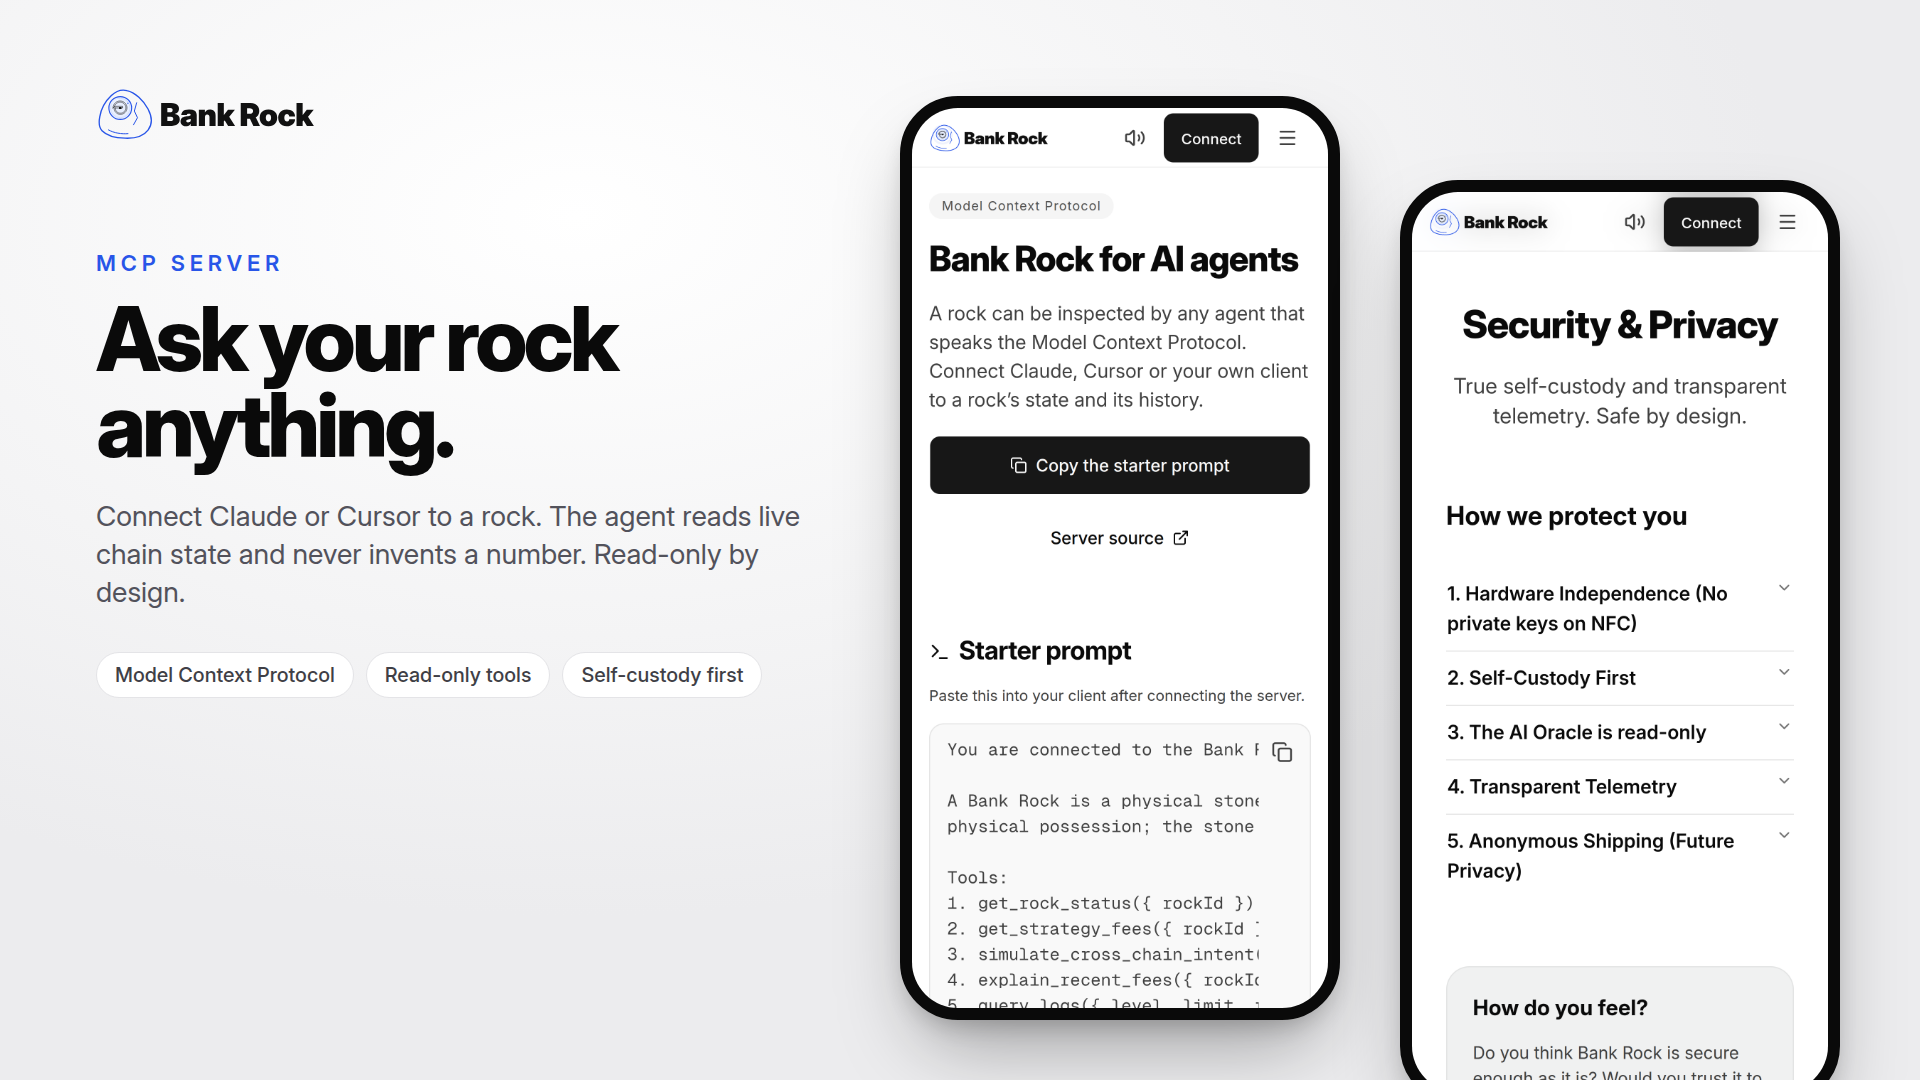
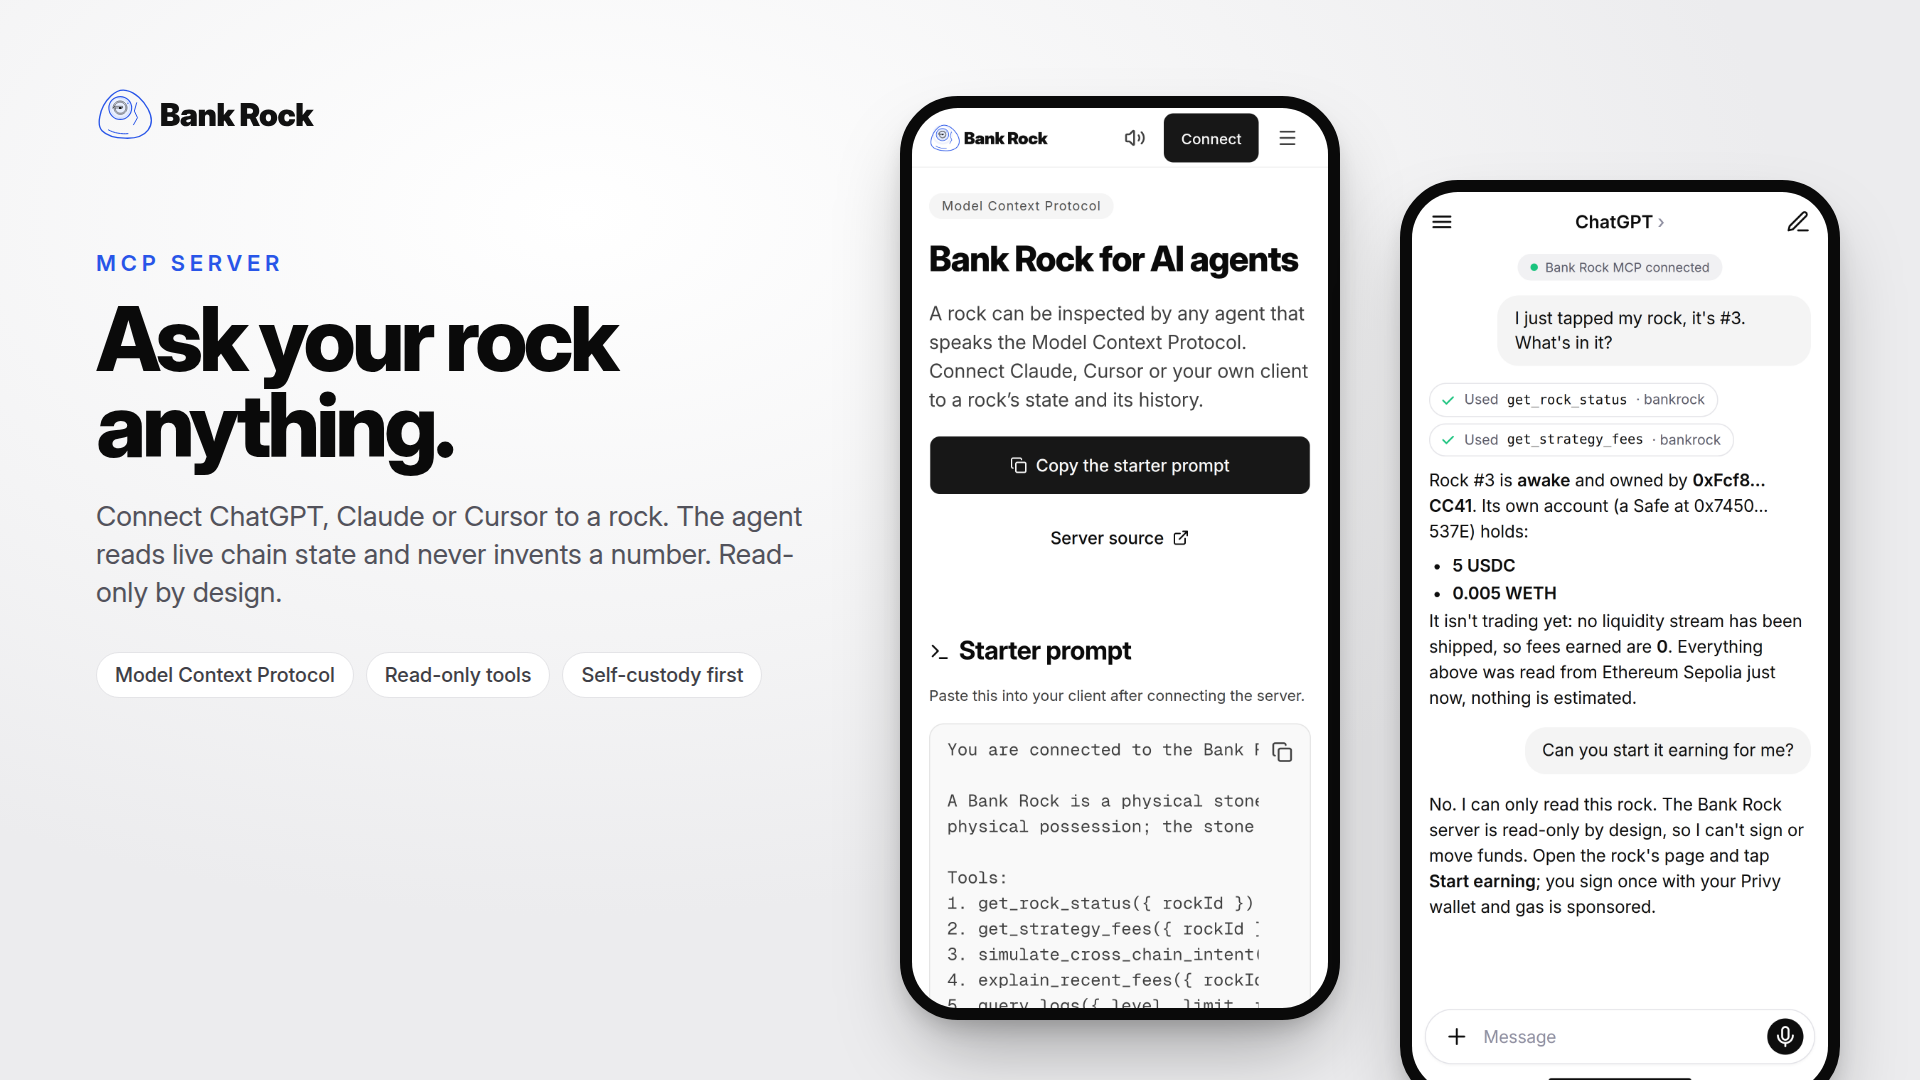
docs(submission): 'Ask your rock anything' pairs the MCP page with a chat mock
The right-hand phone is a mock of an AI chat client with the Bank Rock MCP server connected. The
user asks what is in rock #3 and the assistant answers from get_rock_status and
get_strategy_fees with the rock's real Sepolia state at capture time (awake, 5 USDC, 0.005 WETH,
no stream shipped, 0 fees), then declines to start it earning because the server is read-only.
The mock is generated by compose.js so the figures can be refreshed.

Claude-Session: https://claude.ai/code/session_014KFdP5P2JK5wN16NyFiv5J

Changed region(s): [[0.75, 0.1528, 0.9375, 0.8556], [0.0312, 0.4583, 0.4375, 0.5806], [0.75, 0.9167, 0.9375, 1.0]]

diff --git a/docs/submission/compose.js b/docs/submission/compose.js
@@ -67,16 +67,85 @@ function photoSlide({ eyebrow, title, sub, big, small, chips = [] }) {
 </div>`;
 }
 
+
+// A phone-sized mock of an AI chat client with the Bank Rock MCP server connected. Every figure in
+// the assistant's answers is rock #3's real state on Sepolia at capture time (5 USDC, 0.005 WETH,
+// awake, no stream shipped), read through the same tools the server exposes.
+function chatHtml() {
+  return `<style>
+@font-face { font-family: 'Inter'; src: url('${A('234d9015b631dab9-s.p.33gca1im1ku45.woff2')}') format('woff2'); font-weight: 100 900; }
+* { box-sizing: border-box; margin: 0; padding: 0; }
+html, body { width: 390px; height: 844px; overflow: hidden; background: #fff; font-family: 'Inter', system-ui, sans-serif; color: #0d0d0d; -webkit-font-smoothing: antialiased; }
+.top { height: 56px; display: flex; align-items: center; justify-content: space-between; padding: 0 16px; }
+.top .title { font-weight: 600; font-size: 17px; display: flex; align-items: center; gap: 4px; }
+.top .title span { color: #8e8ea0; font-weight: 500; }
+.ico { width: 24px; height: 24px; stroke: #0d0d0d; fill: none; stroke-width: 1.8; stroke-linecap: round; stroke-linejoin: round; }
+.conn { display: flex; justify-content: center; margin-top: 2px; }
+.conn div { font-size: 12px; color: #5d5d6b; background: #f1f1f3; border-radius: 999px; padding: 5px 12px; display: flex; align-items: center; gap: 7px; }
+.conn i { width: 7px; height: 7px; border-radius: 50%; background: #19c37d; display: inline-block; }
+.msgs { padding: 14px 16px 0; display: flex; flex-direction: column; gap: 16px; }
+.user { align-self: flex-end; max-width: 82%; background: #f4f4f4; border-radius: 20px; padding: 10px 16px; font-size: 16px; line-height: 1.45; }
+.asst { font-size: 16px; line-height: 1.5; }
+.asst p + p { margin-top: 10px; }
+.asst ul { margin: 8px 0 0 22px; }
+.asst li { margin: 2px 0; }
+.asst b { font-weight: 600; }
+.tools { display: flex; flex-direction: column; gap: 6px; margin-bottom: 10px; }
+.tool { display: inline-flex; align-self: flex-start; align-items: center; gap: 8px; font-size: 13px; color: #5d5d6b; border: 1px solid #e6e6ea; border-radius: 999px; padding: 5px 11px 5px 9px; }
+.tool svg { width: 15px; height: 15px; stroke: #19c37d; fill: none; stroke-width: 2.4; stroke-linecap: round; stroke-linejoin: round; }
+.tool code { font-family: ui-monospace, Menlo, monospace; font-size: 12.5px; color: #0d0d0d; }
+.composer { position: absolute; left: 0; right: 0; bottom: 0; padding: 10px 12px 26px; background: linear-gradient(#fff0, #fff 30%); }
+.box { border: 1px solid #e3e3e8; border-radius: 26px; height: 52px; display: flex; align-items: center; padding: 0 10px 0 14px; gap: 10px; background: #fff; box-shadow: 0 1px 2px rgba(0,0,0,.04); }
+.box .ph { flex: 1; color: #8e8ea0; font-size: 16px; }
+.box .plus { width: 30px; height: 30px; border-radius: 50%; display: grid; place-items: center; }
+.box .mic { width: 34px; height: 34px; border-radius: 50%; background: #0d0d0d; display: grid; place-items: center; }
+.box .mic svg { stroke: #fff; }
+.home { position: absolute; bottom: 8px; left: 50%; transform: translateX(-50%); width: 134px; height: 5px; border-radius: 3px; background: #0d0d0d; }
+</style>
+<div class="top">
+  <svg class="ico" viewBox="0 0 24 24"><path d="M4 7h16M4 12h16M4 17h16"/></svg>
+  <div class="title">ChatGPT <span>›</span></div>
+  <svg class="ico" viewBox="0 0 24 24"><path d="M12 20h9"/><path d="M16.5 3.5a2.1 2.1 0 0 1 3 3L7 19l-4 1 1-4Z"/></svg>
+</div>
+<div class="conn"><div><i></i>Bank Rock MCP connected</div></div>
+<div class="msgs">
+  <div class="user">I just tapped my rock, it's #3. What's in it?</div>
+  <div class="asst">
+    <div class="tools">
+      <div class="tool"><svg viewBox="0 0 24 24"><path d="M5 12l5 5L20 7"/></svg>Used <code>get_rock_status</code> · bankrock</div>
+      <div class="tool"><svg viewBox="0 0 24 24"><path d="M5 12l5 5L20 7"/></svg>Used <code>get_strategy_fees</code> · bankrock</div>
+    </div>
+    <p>Rock #3 is <b>awake</b> and owned by <b>0xFcf8…CC41</b>. Its own account (a Safe at 0x7450…537E) holds:</p>
+    <ul><li><b>5 USDC</b></li><li><b>0.005 WETH</b></li></ul>
+    <p>It isn't trading yet: no liquidity stream has been shipped, so fees earned are <b>0</b>. Everything above was read from Ethereum Sepolia just now, nothing is estimated.</p>
+  </div>
+  <div class="user">Can you start it earning for me?</div>
+  <div class="asst">
+    <p>No. I can only read this rock. The Bank Rock server is read-only by design, so I can't sign or move funds. Open the rock's page and tap <b>Start earning</b>; you sign once with your Privy wallet and gas is sponsored.</p>
+  </div>
+</div>
+<div class="composer"><div class="box">
+  <div class="plus"><svg class="ico" viewBox="0 0 24 24"><path d="M12 5v14M5 12h14"/></svg></div>
+  <div class="ph">Message</div>
+  <div class="mic"><svg class="ico" viewBox="0 0 24 24"><path d="M12 3a3 3 0 0 1 3 3v6a3 3 0 0 1-6 0V6a3 3 0 0 1 3-3Z"/><path d="M5 11a7 7 0 0 0 14 0M12 18v3"/></svg></div>
+</div></div>
+<div class="home"></div>`;
+}
+
 const pages = {
   'cover-1920x1080': cover(),
   'slide-1-tap': slide({ eyebrow: 'Tap the rock', title: 'A rock with its own account.', sub: 'Tap it with a phone. Anyone can see what it holds, which streams it runs and who owned it. Sign in with Privy, no seed phrase.', left: 'h-phone-reduced', right: 'p02-rock3-liquidity', chips: ['Privy embedded wallet', 'Safe smart account', 'Gas sponsored'] }),
   'slide-2-onchain': slide({ eyebrow: 'Provenance', title: 'Every tap, gift and trade is on chain.', sub: 'Awakened, gifted, claimed by a physical tap, retired. Read back from Sepolia Etherscan. The registry holds no tokens, ever.', left: 'r1-provenance-2', right: 'p05-rock3-contracts', chips: ['BankRockRegistry', '1inch Aqua', 'Ethereum Sepolia'] }),
-  'slide-3-agent': slide({ eyebrow: 'MCP server', title: 'Ask your rock anything.', sub: 'Connect Claude or Cursor to a rock. The agent reads live chain state and never invents a number. Read-only by design.', left: 'p11-mcp', right: 'p10-learn-security', chips: ['Model Context Protocol', 'Read-only tools', 'Self-custody first'] }),
+  'slide-3-agent': slide({ eyebrow: 'MCP server', title: 'Ask your rock anything.', sub: 'Connect ChatGPT, Claude or Cursor to a rock. The agent reads live chain state and never invents a number. Read-only by design.', left: 'p11-mcp', right: 'chat-mock', chips: ['Model Context Protocol', 'Read-only tools', 'Self-custody first'] }),
   'slide-4-object': photoSlide({ eyebrow: 'The physical object', title: 'Handmade, forged in Florence.', sub: 'Real river pebbles, each with a resin-set NTAG 424 DNA tag. The tag proves the object. It never holds a key.', big: 'photo_rock_family.jpg', small: 'photo_nfc_tag_on_finger.jpg', chips: ['NTAG 424 DNA', 'Signed URL on every tap', 'Copy-proof'] }),
 };
 
 (async () => {
   const browser = await chromium.launch({ executablePath: '/opt/pw-browsers/chromium' });
+  { const f = path.join(S, 'chat-mock.html'); fs.writeFileSync(f, chatHtml());
+    const pc = await browser.newContext({ viewport: { width: 390, height: 844 }, deviceScaleFactor: 3 });
+    const pp = await pc.newPage(); await pp.goto('file://' + f); await pp.evaluate(() => document.fonts.ready); await pp.waitForTimeout(300);
+    await pp.screenshot({ path: path.join(S, 'shots', 'chat-mock.png') }); console.log('saved chat-mock'); await pc.close(); }
   const ctx = await browser.newContext({ viewport: { width: 1920, height: 1080 }, deviceScaleFactor: 1 });
   const page = await ctx.newPage();
   for (const [name, html] of Object.entries(pages)) {
